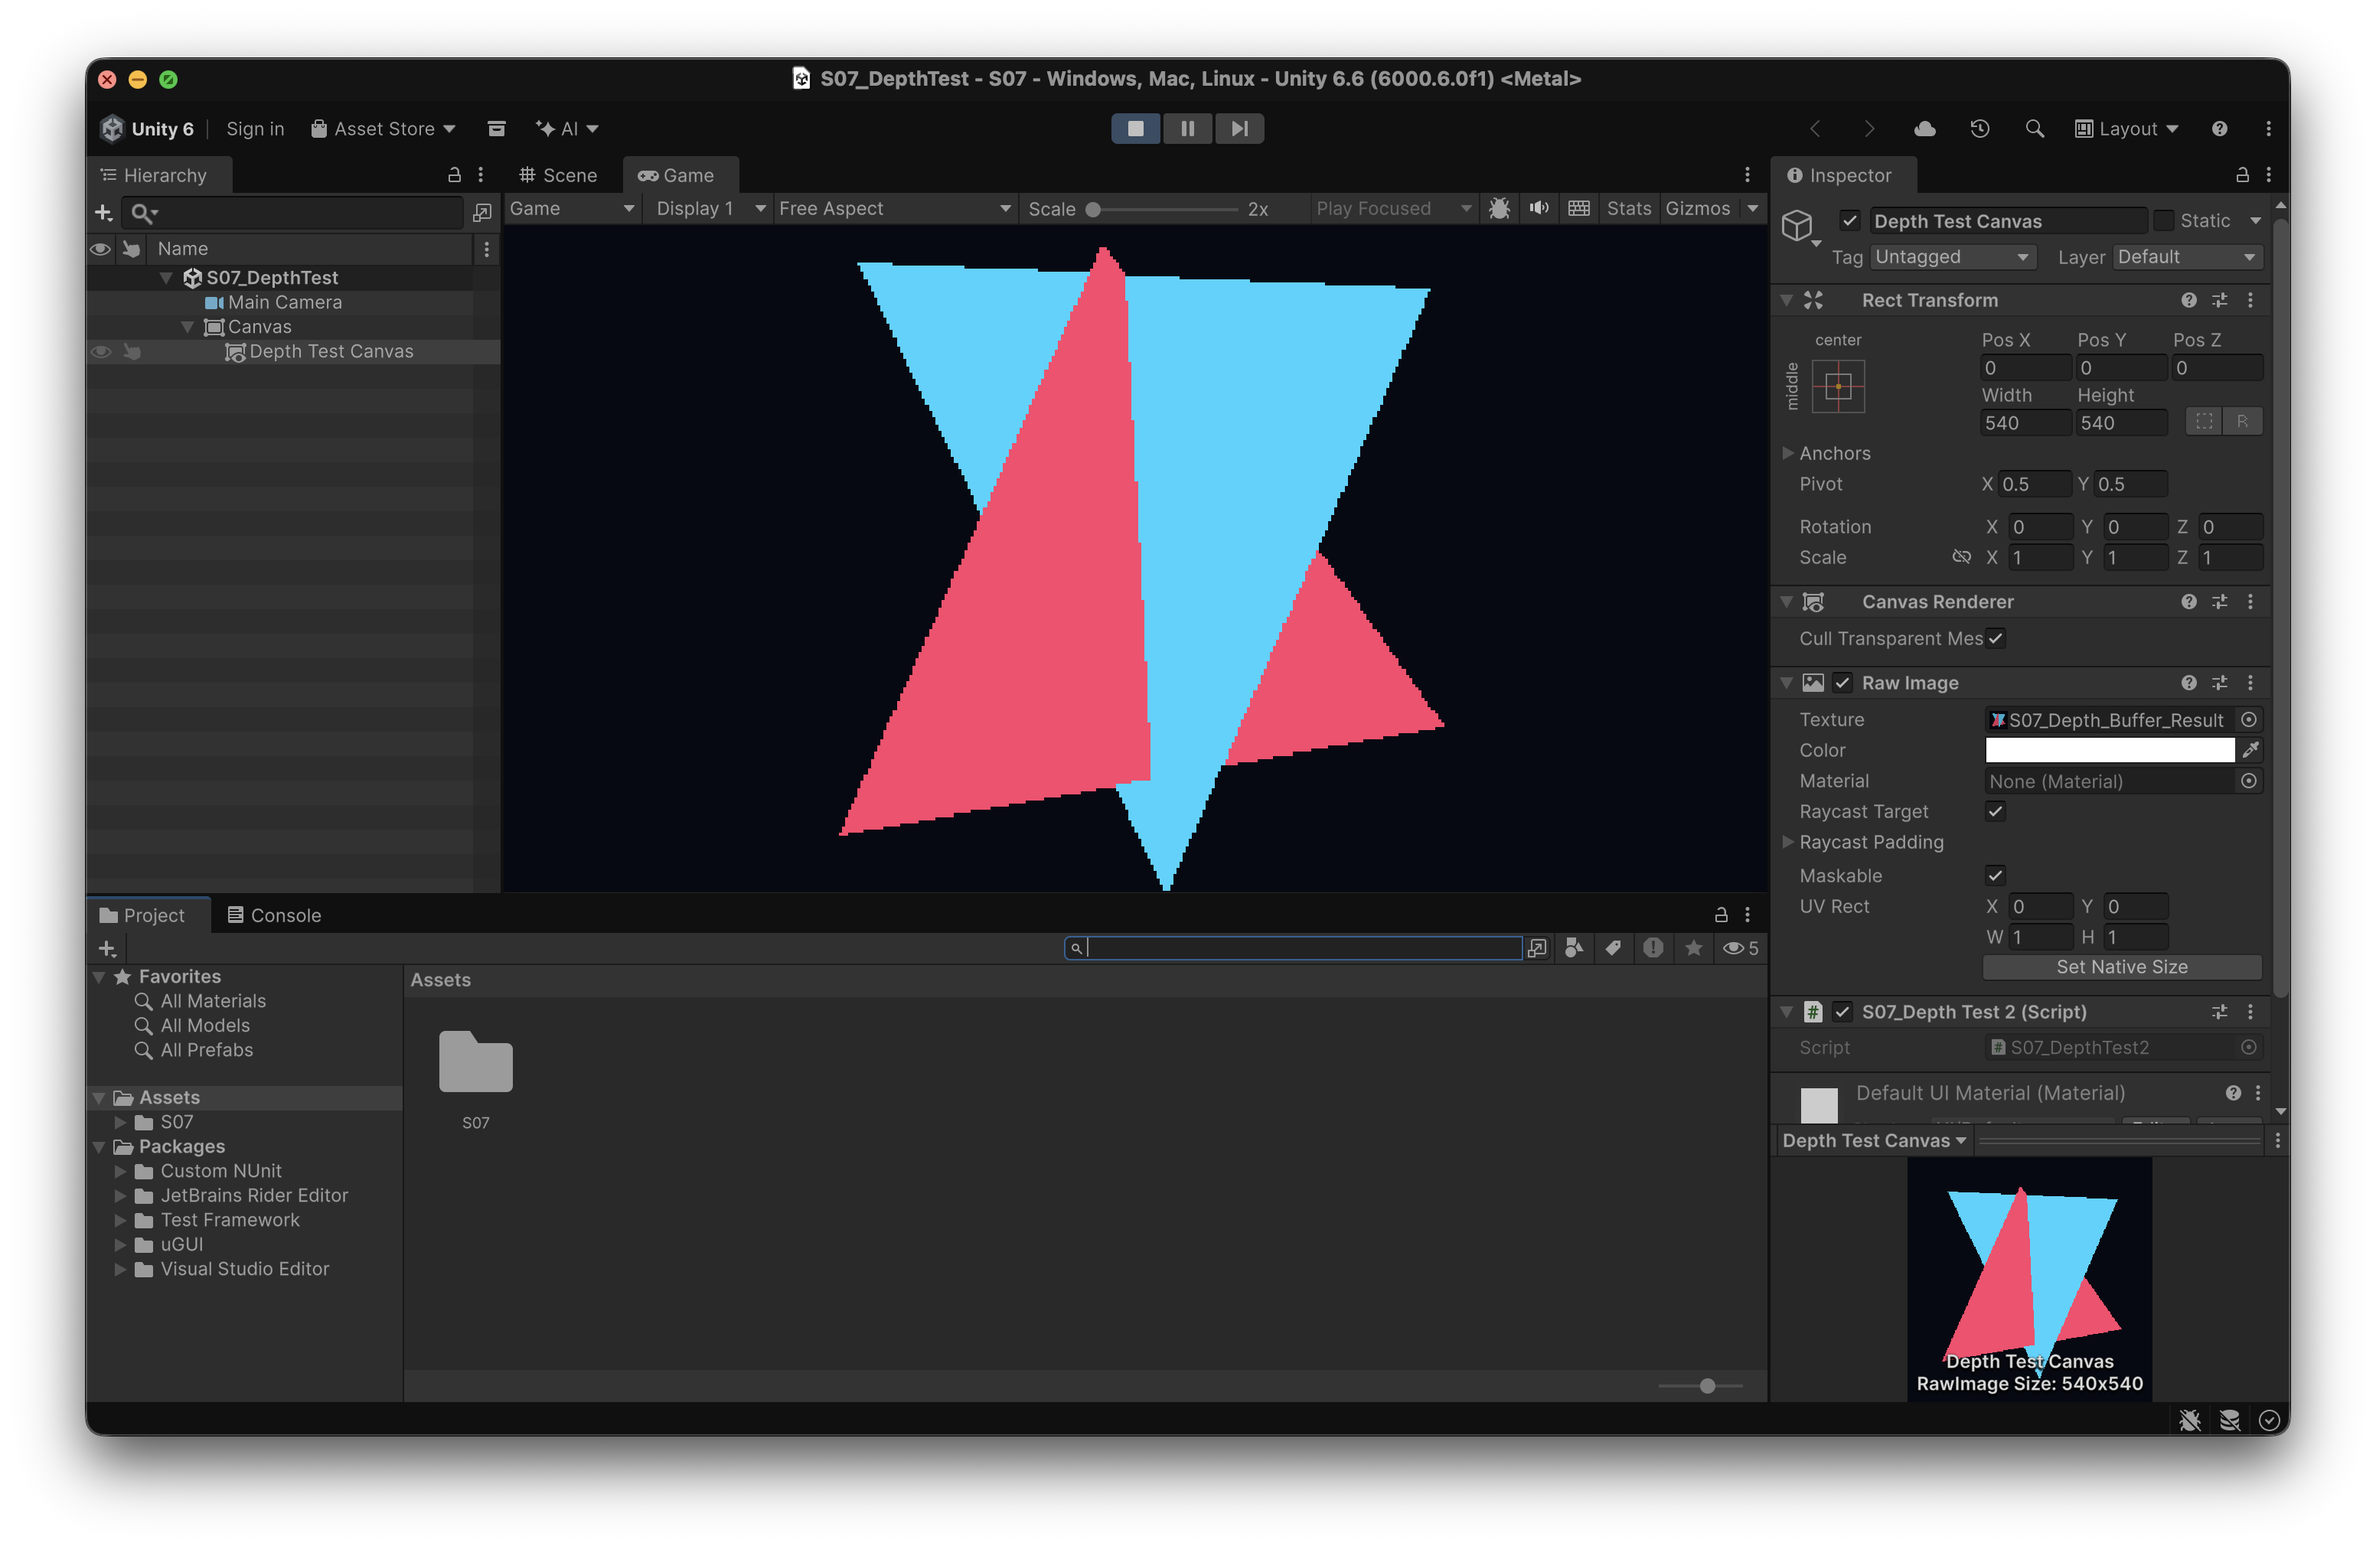
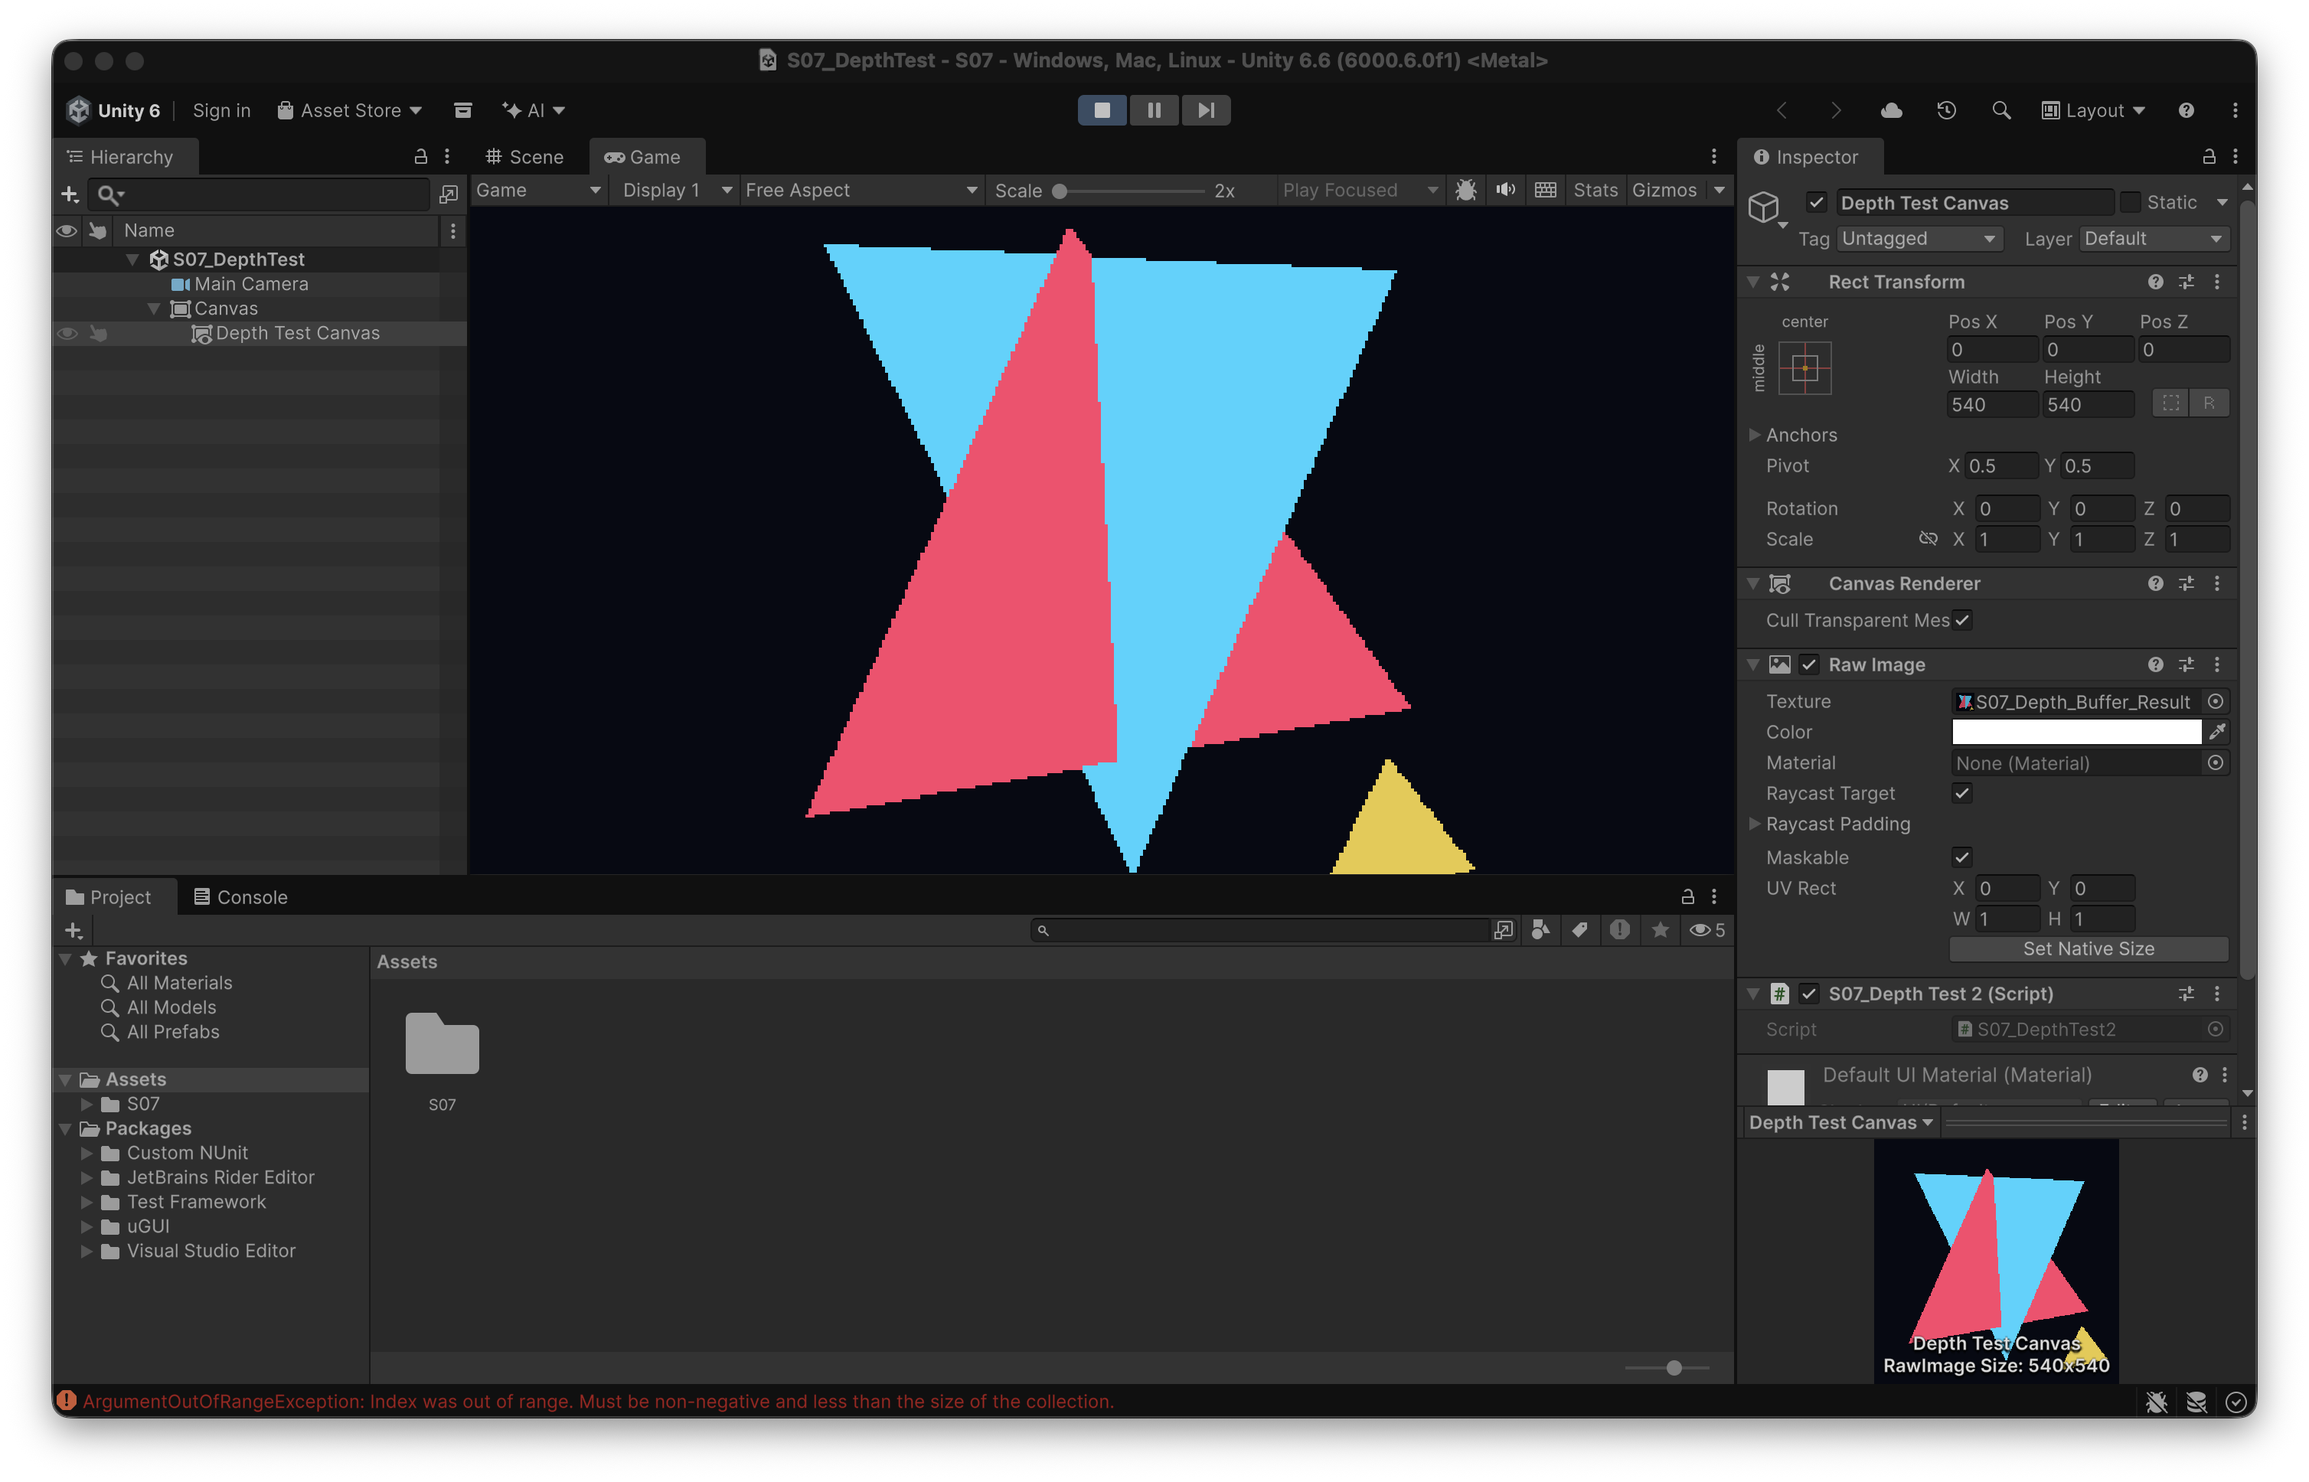
feat(s07): complete three-triangle draw-order exercise

diff --git a/S07/Assets/S07/S07_DepthTest2.cs b/S07/Assets/S07/S07_DepthTest2.cs
@@ -19,8 +19,14 @@ public class S07_DepthTest2 : MonoBehaviour
     private static readonly Vector3 CyanB = new Vector3(220f, 212f, 0.10f);
     private static readonly Vector3 CyanC = new Vector3(138f, 24f, 0.50f);
 
+    // A third, separate triangle keeps the template's three-draw exercise visible.
+    private static readonly Vector3 GoldA = new Vector3(194f, 14f, 0.45f);
+    private static readonly Vector3 GoldB = new Vector3(244f, 26f, 0.45f);
+    private static readonly Vector3 GoldC = new Vector3(217f, 61f, 0.45f);
+
     private static readonly Color Pink = new Color(1f, 0.26f, 0.42f, 1f);
     private static readonly Color Cyan = new Color(0.12f, 0.83f, 1f, 1f);
+    private static readonly Color Gold = new Color(0.91f, 0.79f, 0.25f, 1f);
     private Texture2D canvas;
 
     private void OnEnable() { Render(); }
@@ -48,8 +54,10 @@ public class S07_DepthTest2 : MonoBehaviour
         for (int y = 0; y < CanvasSize; y++)
             for (int x = 0; x < CanvasSize; x++) canvas.SetPixel(x, y, Background);
 
-        DrawTriangle(PinkA, PinkB, PinkC, Pink, depth);
+        // TODO 0: deliberately change the three-draw order; depth wins over call order.
+        DrawTriangle(GoldA, GoldB, GoldC, Gold, depth);
         DrawTriangle(CyanA, CyanB, CyanC, Cyan, depth);
+        DrawTriangle(PinkA, PinkB, PinkC, Pink, depth);
         canvas.Apply(false, false);
         GetComponent<RawImage>().texture = canvas;
     }

diff --git a/S07/Assets/S07/README.md b/S07/Assets/S07/README.md
@@ -2,7 +2,7 @@
 
 Unity Hub에서 저장소의 `S07` 폴더를 독립 프로젝트로 열고 Unity 6.6 (`6000.6.0f1`)으로 실행하세요.
 
-- `Scenes/S07_DepthTest.unity`: 두 삼각형의 z를 보간하고 깊이 버퍼를 검사합니다.
+- `Scenes/S07_DepthTest.unity`: 겹치는 두 삼각형의 z를 보간해 깊이 버퍼를 검사하고, 세 번째 보조 삼각형까지 순서를 바꿔 그립니다.
 - `Scenes/S07_Clipping.unity`: 회색 창의 네 경계에 다각형을 순차적으로 클리핑합니다.
 - `DesignRationale.md`: 각 좌표를 그렇게 정한 이유를 한 줄씩 적었습니다.
 - `Answer.md`: 서술형 4문장입니다.
